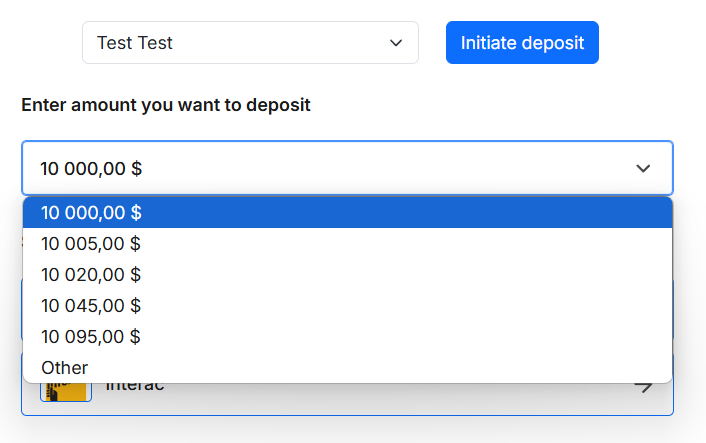
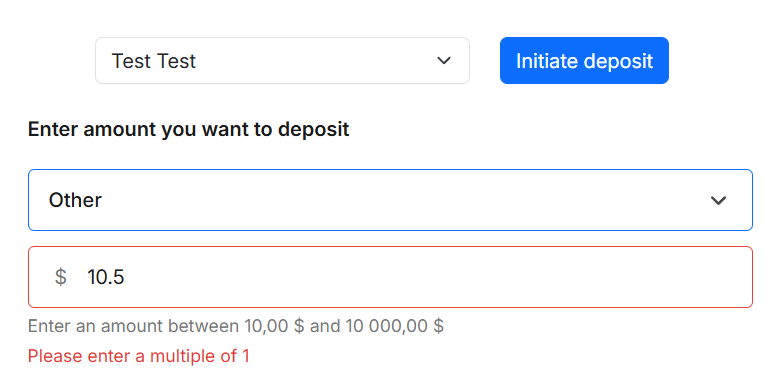
Update debrief

diff --git a/src/views/DebriefsView.vue b/src/views/DebriefsView.vue
@@ -60,16 +60,19 @@
                 </div>
               </li>
               <li class="mb-2">
-                If you check "Set base amount to match customer’s last deposit",
-                and define custom amounts with maximum of $10000. Then make a
-                payment with $10000, the next deposit form shows amounts $10000,
-                $10005, $10020, $10045, $10045. But custom amounts are still
-                limited to $10000. Not sure if this a bug or expected behavior.
+                Confusing validation message "Please enter a multiple of 1".
                 <div class="mt-4">
                   <img src="../assets/debriefs/29/scr3.png" />
                 </div>
+              </li>
+              <li class="mb-2">
+                If customer amounts limits are different from base amount and increments, I can select an amount $10095 but cannot enter $10095 as a custom amount.
+                Strange UX, not sure if this bug or feature.
                 <div class="mt-4">
                   <img src="../assets/debriefs/29/scr4.png" />
+                </div>
+                <div class="mt-4">
+                  <img src="../assets/debriefs/29/scr5.png" />
                 </div>
               </li>
             </ul>
